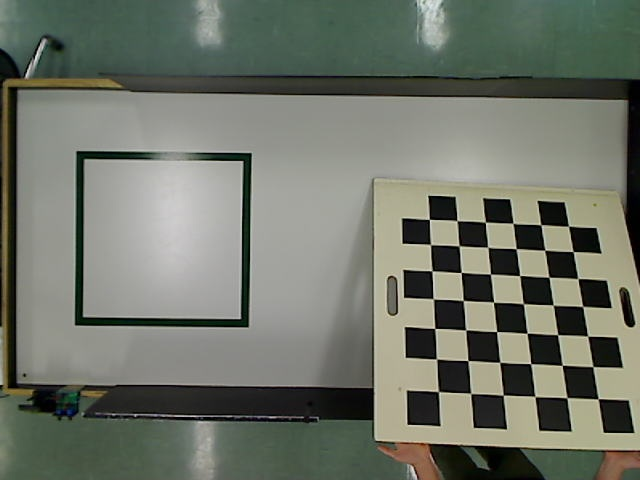
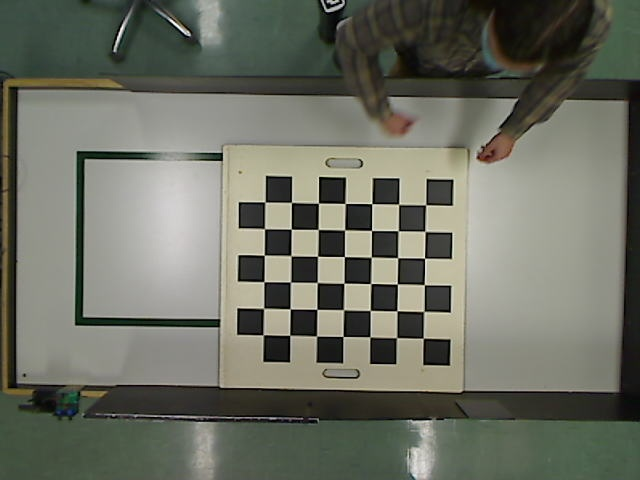
image claib

diff --git a/src/infra/camera/OpenCvWorldCamera.py b/src/infra/camera/OpenCvWorldCamera.py
@@ -21,7 +21,8 @@ class OpenCvWorldCamera(IWorldCamera):
     def _get_camera_frame(self):
         self._clear_buffer()
         ret, current_frame = self._capture.read()
-        return self._camera_calibrator.calibrate(current_frame)
+        return current_frame
+        # return self._camera_calibrator.calibrate(current_frame)
 
     def _clear_buffer(self):
         for i in range(self._buffer_size):

diff --git a/script/camera/take_pictures.py b/script/camera/take_pictures.py
@@ -23,7 +23,7 @@ if __name__ == "__main__":
 
     cv2.destroyAllWindows()
 
-    filename = "../../resources/obstacle/obstacle_configuration_{}.jpg"
+    filename = "resources/calibration/calibration_{}.jpg"
 
     for index, image in enumerate(images):
         print(filename.format(index + 14))
